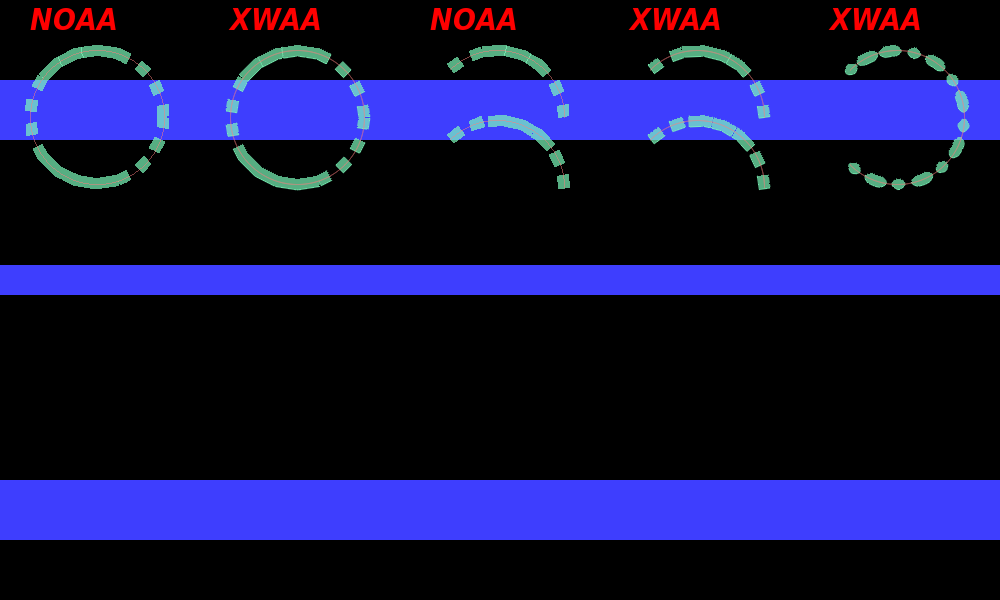
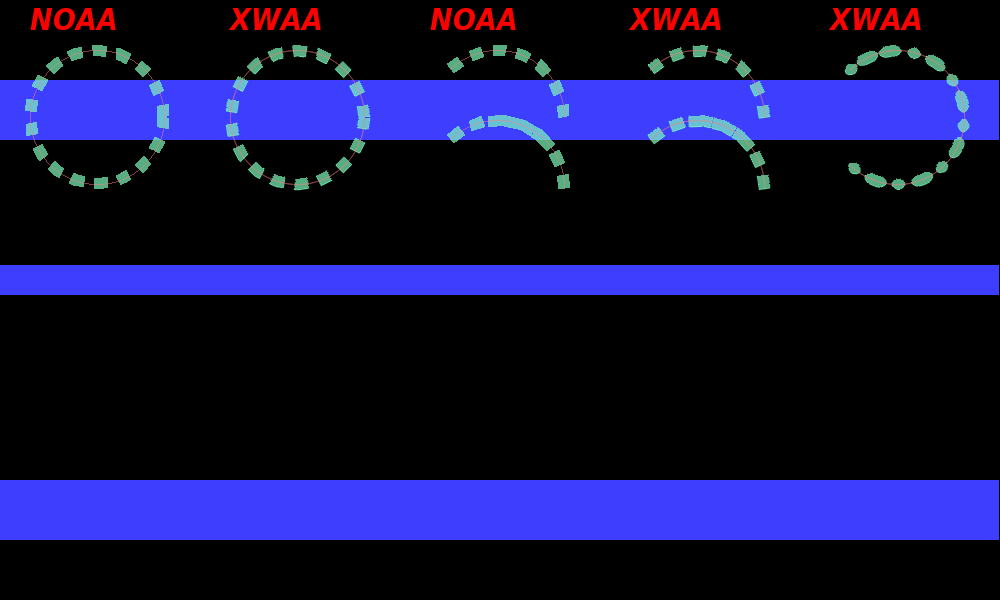
Experimenting with dash pattern setting

diff --git a/src/Pt-Gfx/Rasterizer2.cpp b/src/Pt-Gfx/Rasterizer2.cpp
@@ -174,21 +174,28 @@ void Rasterizer2::updatePenPattern()
         expPatCount += selPattern[i];
     }
 
+    // Determinethe repeate count
+    Pt::uint8_t repeatCount = 1;
+    if(expPatCount < 64) repeatCount = 64 / expPatCount;
+
     // Expand the pattern
     std::vector<bool> expPattern;
-    expPattern.resize(expPatCount);
+    expPattern.resize(expPatCount * repeatCount);
 
     bool        draw = true;
     Pt::int32_t k    = 0;
-    for(Pt::uint8_t i = 0; i < selPatCount; ++i) {
-        for(Pt::uint8_t j = 0; j < selPattern[i]; ++j) {
-            expPattern[k++] = draw;
+
+    for(Pt::uint8_t r = 0; r < repeatCount; ++r) {
+        for(Pt::uint8_t i = 0; i < selPatCount; ++i) {
+            for(Pt::uint8_t j = 0; j < selPattern[i]; ++j) {
+                expPattern[k++] = draw;
+            }
+            draw = !draw;
         }
-        draw = !draw;
     }
 
     // Resize the pattern buffer
-    const Pt::int32_t patternBuffer1PDynSize = (expPatCount + 1) * PATTERN_BUFFER_1P_SCALE_FACTOR;
+    const Pt::int32_t patternBuffer1PDynSize = ( expPattern.size() + 1 ) * PATTERN_BUFFER_1P_SCALE_FACTOR;
 
     _patternBuffer1PDyn.clear();
     _patternBuffer1PDynCntMax = 0;
@@ -196,15 +203,14 @@ void Rasterizer2::updatePenPattern()
     _patternBuffer1PDyn.resize(patternBuffer1PDynSize);
     _patternBuffer1PDynCntMax = FIXED_POINT_FROM_INT(patternBuffer1PDynSize);
 
-    // Counter for generating the patterns
     size_t gctr1P = 0;
 
     // Generate the pattern
     bool previous = false;
-    for(Pt::int32_t p = 0; p <= expPatCount; ++p)
+    for(unsigned p = 0; p < ( expPattern.size() + 1 ); ++p)
     {
         // Get the pattern cell value
-        const Pt::int8_t idx     = (p == expPatCount) ? 0 : p;
+        const Pt::int8_t idx     = ( p == expPattern.size() ) ? 0 : p;
         const bool       current = expPattern[idx];
 
         // --- One-pixel pattern ---

diff --git a/src/Pt-Gfx/tests/ImagePainterTest2_Draw_Outline.cpp b/src/Pt-Gfx/tests/ImagePainterTest2_Draw_Outline.cpp
@@ -138,6 +138,7 @@ static void testDrawPatternedLine(const char* title, Image& image, Painter& pain
         PointF(110 - 0, 310 - 70)
     };
 
+
     if(ip2)
       ip2->drawPolyline( poly, sizeof(poly) / sizeof(poly[0]) );
     else
@@ -146,12 +147,18 @@ static void testDrawPatternedLine(const char* title, Image& image, Painter& pain
     painter.drawRect( RectF(PointF(550, 170), SizeF(100, 50)) );
 
     painter.drawEllipse( PointF (730,  50), SizeF(95, 95) );
+
     if(ip2)
       ip2->drawChord( PointF (730, 170), SizeF(95, 43), 30, 330);
+
     if(ip2)
       ip2->drawPie( PointF (753, 243), SizeF(43, 95), 30, 330 );
 
-    painter.setPen( Pen( Color::fromRgb8(255, 255, 255, 175), 1, 0xB38F0F83F03F8000 ) ); // 1011001110001111000011111000001111110000001111111000000000000000
+
+    Pt::uint8_t pa[] = { 1, 1, 2, 2, 3, 3, 4, 4, 5, 5, 6, 6, 7, 15 };
+    painter.setPen( Pen( Color::fromRgb8(255, 255, 255, 175), 1, pa, sizeof(pa) ) ); // 1011001110001111000011111000001111110000001111111000000000000000
+    //painter.setPen( Pen( Color::fromRgb8(255, 255, 255, 175), 1, 0xB38F0F83F03F8000 ) ); // 1011001110001111000011111000001111110000001111111000000000000000
+
     painter.drawRect( RectF(PointF(260, 20), SizeF(180, 80)) );
 
     //if(ip2) {

diff --git a/src/Pt-Gfx/tests/ImagePainterTest2.cpp b/src/Pt-Gfx/tests/ImagePainterTest2.cpp
@@ -93,7 +93,7 @@ using namespace Pt::Gfx;
 #define TEST_DRAW_GRADIENT_FILLED_ELLIPSES_ARCS 0
 #define TEST_DRAW_TEXTURE_FILLED_ELLIPSES_ARCS  0
 
-//#define TEST_DRAW_EXTRA                        0
+//#define TEST_DRAW_EXTRA                       0
 
 #define TEST_DRAW_PATH                          0 // (including thick and filled and rectangle clipping area)
 #define TEST_DRAW_PATH_CLIPPING                 0 // (including path-based text)

diff --git a/src/Pt-Gfx/Rasterizer2.h b/src/Pt-Gfx/Rasterizer2.h
@@ -592,7 +592,7 @@ class Rasterizer2
         Image            _penBuffer;
         ConstPixel       _penPixel;
 
-//#define DYNAMIC_PPB_1P
+#define DYNAMIC_PPB_1P
 
         // Pattern buffer for one-pixel line
 #ifdef DYNAMIC_PPB_1P
